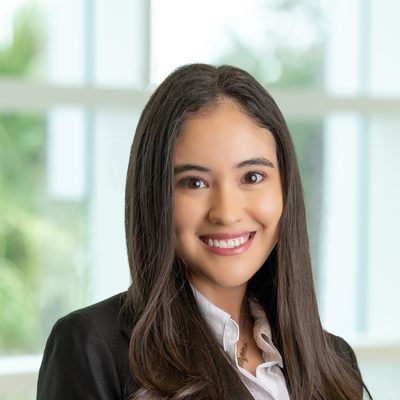
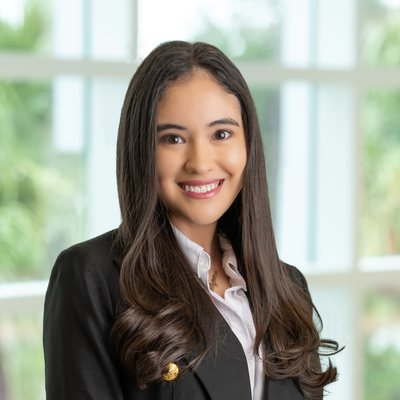
Recenter Regina's portrait; Chair and Dean titles, appointed 2026
Claude-Session: https://claude.ai/code/session_01EqLyvBzCrqEtHNZxcfa2pK

diff --git a/index.html b/index.html
@@ -128,21 +128,21 @@
       <article class="panel big">
         <img src="assets/photos/fernandez-bussy.jpg" alt="Sebastian Fernandez-Bussy, MD" width="400" height="400">
         <div>
-          <p class="kicker">Dean of Research</p>
+          <p class="kicker">Dean of Research, Mayo Clinic Florida</p>
           <h3>Sebastian Fernandez-Bussy, MD</h3>
           <p class="t">James C. and Sarah K. Kennedy Dean of Research, Mayo Clinic in Florida</p>
           <p class="r">Professor of Medicine; Chair, Division of Pulmonary, Allergy and Sleep Medicine</p>
-          <p class="b">Sebastian Fernandez-Bussy, MD, is the James C. and Sarah K. Kennedy Dean of Research at Mayo Clinic in Florida and Professor of Medicine. An interventional pulmonologist, he chairs the Division of Pulmonary, Allergy and Sleep Medicine and directs the Section of Interventional Pulmonology and the Procedure Innovation Team in Florida. His research spans robot-assisted and translational bronchoscopy, minimally invasive ablation for thoracic cancers, COPD and central airway disorders, and AI-driven biomarkers. He trained in Argentina, at the University of Florida, and at Heidelberg University, where he is a visiting professor, and he directs the Endoscopy Department of the Latin American Thoracic Society.</p>
+          <p class="b">Sebastian Fernandez-Bussy, MD, was appointed the James C. and Sarah K. Kennedy Dean of Research at Mayo Clinic in Florida in 2026 and is Professor of Medicine. An interventional pulmonologist, he chairs the Division of Pulmonary, Allergy and Sleep Medicine and directs the Section of Interventional Pulmonology and the Procedure Innovation Team in Florida. His research spans robot-assisted and translational bronchoscopy, minimally invasive ablation for thoracic cancers, COPD and central airway disorders, and AI-driven biomarkers. He trained in Argentina, at the University of Florida, and at Heidelberg University, where he is a visiting professor, and he directs the Endoscopy Department of the Latin American Thoracic Society.</p>
         </div>
       </article>
       <article class="panel big">
         <img src="assets/photos/castaneda-regina.jpg" alt="Regina Castaneda, MD" width="400" height="400">
         <div>
-          <p class="kicker">Chair, MRFA Florida</p>
+          <p class="kicker">Mayo Clinic Research Fellow Association - Florida - Chair</p>
           <h3>Regina Castaneda, MD</h3>
           <p class="t">Chair, Mayo Clinic Research Fellow Association (MRFA), Florida</p>
           <p class="r">Postdoctoral Research Fellow, Women's Health and Internal Medicine</p>
-          <p class="b">Regina Castaneda, MD, chairs the Mayo Clinic Research Fellow Association in Florida and is a postdoctoral research fellow in women’s health and internal medicine at Mayo Clinic in Jacksonville. Her research focuses on menopause, hormone therapy, and cardiometabolic health, with a particular interest in obesity treatment for midlife women. She has led multiple first-author publications in leading journals, including The Lancet, Annals of Internal Medicine, and JAMA, and her work on hormone therapy and tirzepatide was featured by the Endocrine Society at ENDO 2025. Her honors include the New Investigator Award from The Menopause Society (2025) and the MRFA Translational Research Award.</p>
+          <p class="b">Regina Castaneda, MD, was appointed Chair of the Mayo Clinic Research Fellow Association in Florida in 2026 and is a postdoctoral research fellow in women’s health and internal medicine at Mayo Clinic in Jacksonville. Her research focuses on menopause, hormone therapy, and cardiometabolic health, with a particular interest in obesity treatment for midlife women. She has led multiple first-author publications in leading journals, including The Lancet, Annals of Internal Medicine, and JAMA, and her work on hormone therapy and tirzepatide was featured by the Endocrine Society at ENDO 2025. Her honors include the New Investigator Award from The Menopause Society (2025) and the MRFA Translational Research Award.</p>
         </div>
       </article>
       <article class="panel mid">
